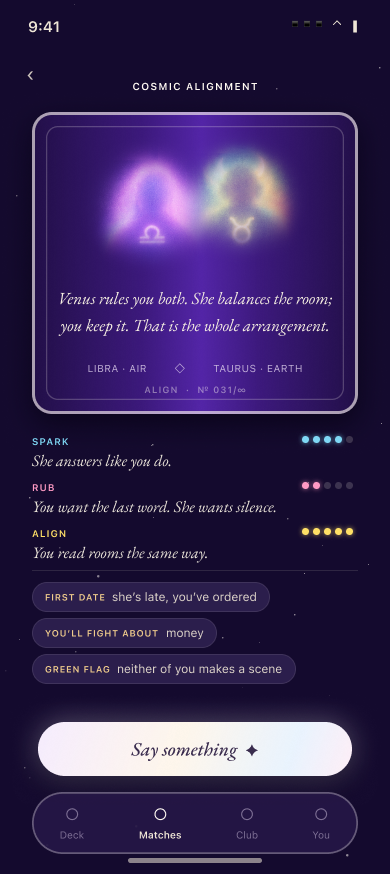
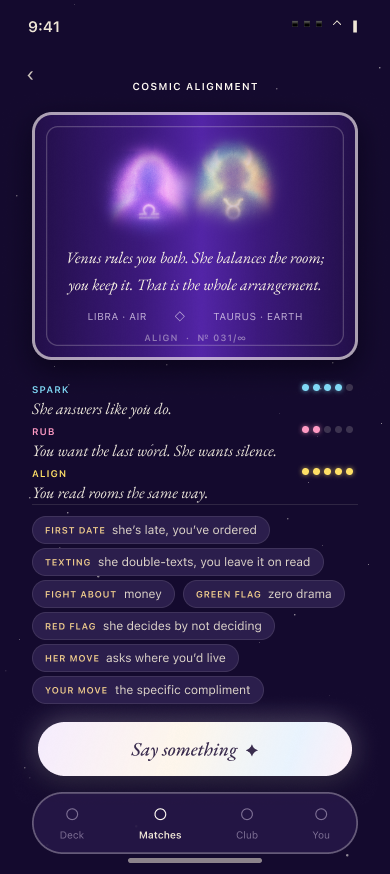
S-21 Alignment: seven quick-hit pills, card tightened to make room
Claude-Session: https://claude.ai/code/session_016YjMTARDAwfH7MsqGSPAVh

Changed region(s): [[0.0615, 0.1545, 0.9231, 0.8032]]

diff --git a/design/scores.md b/design/scores.md
@@ -293,8 +293,12 @@ Core Flow section back to five rows). S-21 is now one screen:
   colours (`#7FD8F5` spark, `#FF9AC4` rub, `#FFE066` align), each with a
   five-dot score and one italic line: *She answers like you do.* / *You want
   the last word. She wants silence.* / *You read rooms the same way.*;
-- three **quick-hit pills**: FIRST DATE · she’s late, you’ve ordered ·
-  YOU’LL FIGHT ABOUT · money · GREEN FLAG · neither of you makes a scene;
+- seven **quick-hit pills**, flowing two per row where they fit ("too
+  little info" after the first cut): FIRST DATE · she’s late, you’ve
+  ordered · TEXTING · she double-texts, you leave it on read · FIGHT ABOUT ·
+  money · GREEN FLAG · zero drama · RED FLAG · she decides by not deciding ·
+  HER MOVE · asks where you’d live · YOUR MOVE · the specific compliment;
+  the card is 248 tall to make room;
 - the Say something button.
 
 The chat sheet S-09b keeps its Spark / Rub / Align guide and links here.
